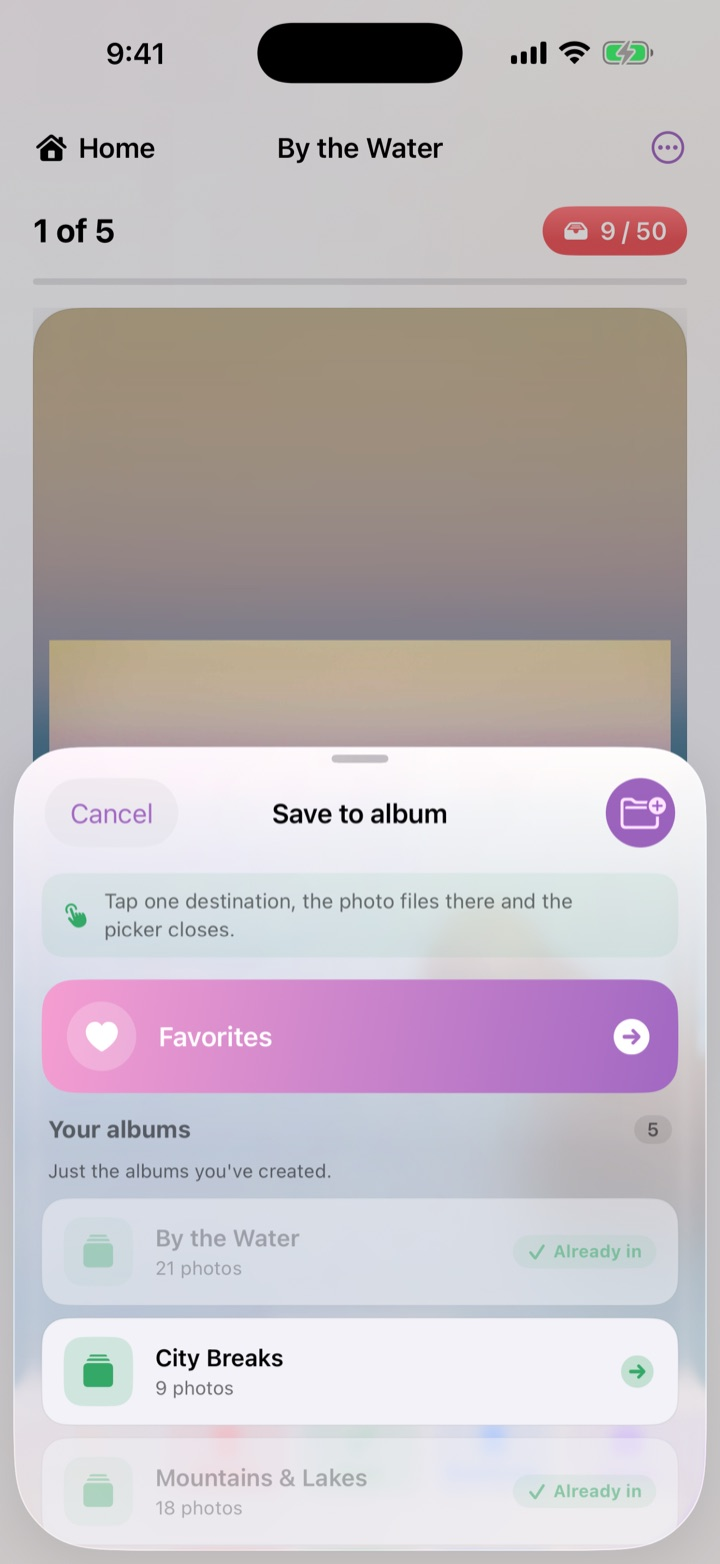
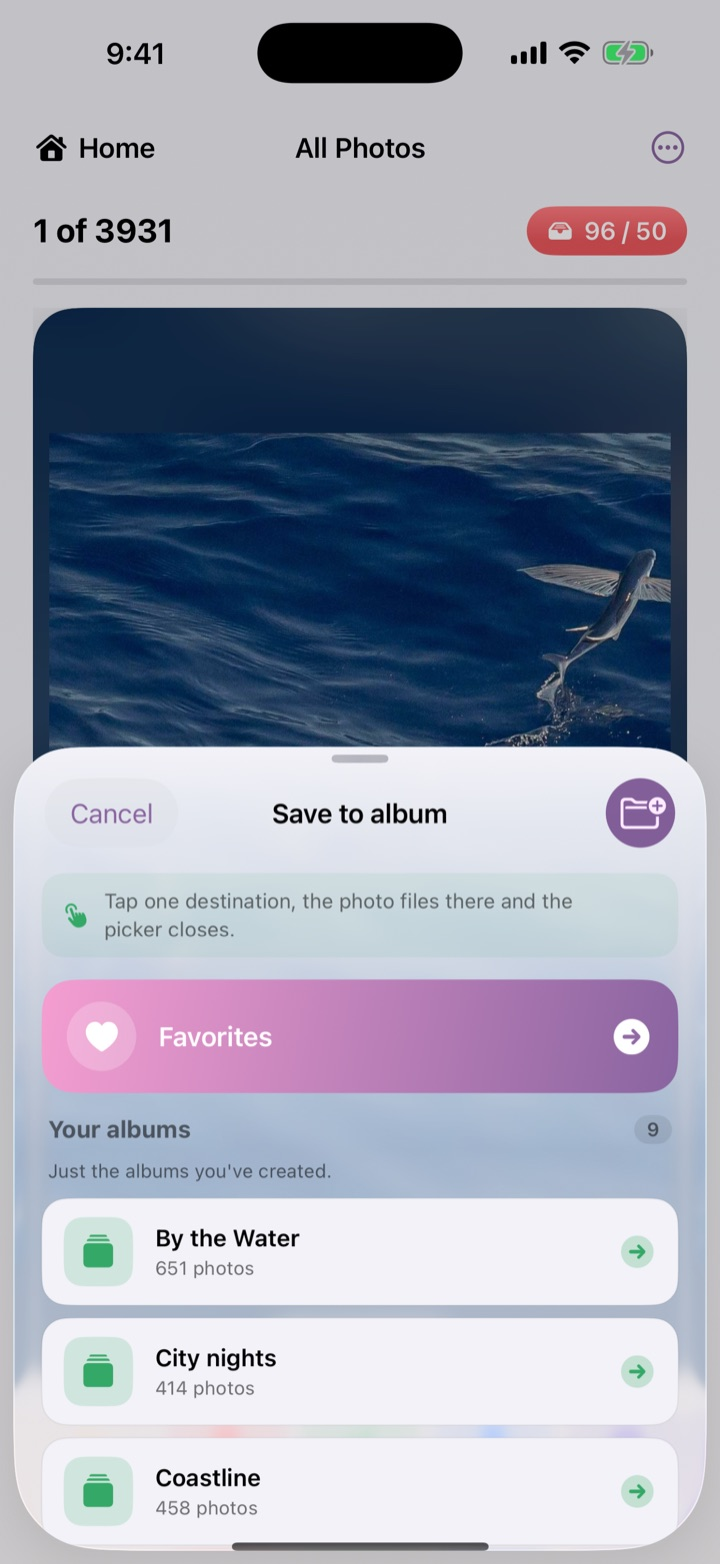
TidyTidy page: fresh 2.2 screenshots, tighter layout, contained footer
Every screenshot is re-taken from the shipping 2.2 build (the old set was
NeatRoll-era captures, including a NeatRoll wordmark on the storage section).
The showcase now follows the App Store set's narrative: sort to albums, clear
duplicates, then see progress and celebrate (new dark celebration shot), with
a make-it-yours pill row instead of a fourth device block. Hero gains the
on-device / no-ads / no-account pills and sections tighten up overall.

Fixes: the footer was edge-to-edge on all eight app pages (the .wrap class
was missing from .footer-inner; root page had it); the header nav overflowed
under 400px on the two product pages (same fix as the root page: hide the
longest section link at the narrowest widths).

The App Store buttons stay on the bare-id URL (apps.apple.com/app/id6776543079),
which Apple resolves by numeric id alone — it keeps working through the rename.

diff --git a/tidytidy/index.html b/tidytidy/index.html
@@ -28,8 +28,8 @@
     <link rel="stylesheet" href="/styles.css">
     <style>
       /* ---- TidyTidy product page: device mockups, showcase, tighter rhythm ---- */
-      main .section { padding-block: clamp(3.25rem, 2.4rem + 3.4vw, 5.5rem); }
-      main > .section:first-child { padding-top: calc(var(--header-h) + clamp(1.75rem, 4vw, 3.25rem)); }
+      main .section { padding-block: clamp(2.25rem, 1.6rem + 2.6vw, 3.75rem); }
+      main > .section:first-child { padding-top: calc(var(--header-h) + clamp(1.5rem, 3vw, 2.5rem)); }
 
       /* Hero: copy beside a device */
       .pt-hero {
@@ -58,7 +58,7 @@
       .pt-hero .device { max-width: 300px; }
 
       /* Showcase: alternating device + copy rows */
-      .showcase { display: grid; gap: clamp(2.5rem, 5vw, 4.5rem); margin-top: clamp(2.5rem, 5vw, 4rem); }
+      .showcase { display: grid; gap: clamp(1.75rem, 3.5vw, 3rem); }
       .showcase-row {
         display: grid;
         grid-template-columns: 0.9fr 1.1fr;
@@ -100,6 +100,11 @@
         .showcase-row.reverse .showcase-media { order: 0; }
         .device, .pt-hero .device { max-width: 264px; }
       }
+      @media (max-width: 400px) {
+        /* Same pattern as the root page: drop the longest section link at the
+           narrowest widths; keep Support and the primary CTA. */
+        nav a[href="#how"] { display: none; }
+      }
     </style>
   </head>
   <body>
@@ -132,19 +137,22 @@
               <p class="pillar-name pillar-name-pulse">TidyTidy &middot; Sort &amp; clean photos</p>
               <h1>Sort your photos. <span class="accent-pulse-ink">Clear the clutter.</span></h1>
               <p class="lead">
-                Swipe to clean up your camera roll &mdash; sort keepers into albums,
-                clear duplicates, and free up space. All on your iPhone.
+                One swipe files a keeper, clears a duplicate, or frees the space
+                it was wasting. Entirely on your iPhone.
               </p>
-              <div class="hero-actions">
+              <div class="pill-row" aria-label="Highlights">
+                <span class="pill">100% on-device</span>
+                <span class="pill">No ads</span>
+                <span class="pill">No account</span>
+                <span class="pill">iOS 17+</span>
+              </div>
+              <div class="hero-actions" style="margin-top: 1.75rem;">
                 <a class="button button-coral button-lg" href="https://apps.apple.com/app/id6776543079">
                   Get it on the App Store
                   <svg viewBox="0 0 24 24" fill="none" stroke="currentColor" stroke-width="2.4" stroke-linecap="round" stroke-linejoin="round" aria-hidden="true"><path d="M5 12h14"/><path d="m13 6 6 6-6 6"/></svg>
                 </a>
                 <a class="button button-quiet" href="#how" style="border-color: var(--line); color: var(--ink-text);">See how it works</a>
               </div>
-              <p style="color: var(--ink-muted); font-size: var(--t-small); margin-top: 1.5rem;">
-                iPhone &middot; iOS 17+ &middot; No accounts, no ads
-              </p>
             </div>
             <div class="device">
               <img src="/tidytidy/img/swipe-web.jpg" width="720" height="1564"
@@ -160,13 +168,13 @@
             <div class="showcase-row">
               <div class="showcase-media">
                 <div class="device">
-                  <img src="/tidytidy/img/home-web.jpg" width="720" height="1565" loading="lazy"
-                       alt="TidyTidy home dashboard showing review progress and gigabytes freed.">
+                  <img src="/tidytidy/img/albums-web.jpg" width="720" height="1564" loading="lazy"
+                       alt="TidyTidy &ldquo;Save to album&rdquo; picker filing a photo into an album.">
                 </div>
               </div>
               <div class="showcase-copy">
-                <h3>Save storage, effortlessly.</h3>
-                <p>Watch the gigabytes come back as you sort &mdash; no more &ldquo;Storage Full.&rdquo;</p>
+                <h3>Tidy photos. Sort to albums.</h3>
+                <p>File keepers into any album right as you swipe. Every change lands straight in iOS Photos.</p>
               </div>
             </div>
 
@@ -178,21 +186,27 @@
                 </div>
               </div>
               <div class="showcase-copy">
-                <h3>Find duplicates, automatically.</h3>
-                <p>We group near-identical shots and bursts, then pick the best to keep. Looks great in light or dark.</p>
+                <h3>Save space. Clear duplicates.</h3>
+                <p>Near-identical shots and bursts are grouped for you, with the best one already picked to keep.</p>
               </div>
             </div>
 
             <div class="showcase-row">
               <div class="showcase-media">
                 <div class="device">
-                  <img src="/tidytidy/img/albums-web.jpg" width="720" height="1564" loading="lazy"
-                       alt="TidyTidy &ldquo;Save to album&rdquo; picker for filing a photo into an album.">
+                  <img src="/tidytidy/img/celebrate-web.jpg" width="720" height="1564" loading="lazy"
+                       alt="TidyTidy's clean-up celebration: 445 MB freed this session, 2.14 GB all-time, confetti around the app icon.">
                 </div>
               </div>
               <div class="showcase-copy">
-                <h3>Sort into albums, in a tap.</h3>
-                <p>File keepers into any album right as you swipe &mdash; every change lands straight in iOS Photos.</p>
+                <h3>See progress. And celebrate!</h3>
+                <p>Watch the gigabytes come back, this session and all-time. Every confirmed clean-up ends with a little celebration.</p>
+                <div class="pill-row" aria-label="Make it yours">
+                  <span class="pill">Custom swipe order &amp; actions</span>
+                  <span class="pill">Light &amp; dark</span>
+                  <span class="pill">9 languages</span>
+                  <span class="pill">Haptics &amp; sounds</span>
+                </div>
               </div>
             </div>
           </div>
@@ -201,10 +215,10 @@
 
       <section class="section">
         <div class="wrap">
-          <div class="section-head" style="margin-bottom: clamp(1.75rem, 3vw, 2.5rem);">
+          <div class="section-head" style="margin-bottom: clamp(1.25rem, 2.5vw, 1.75rem);">
             <h2>Ready to tidy up?</h2>
             <p class="lead">
-              Free to start. Private by design &mdash; nothing leaves your iPhone.
+              Free to start. Private by design: nothing leaves your iPhone.
             </p>
           </div>
           <div class="hero-actions">
@@ -213,7 +227,7 @@
               <svg viewBox="0 0 24 24" fill="none" stroke="currentColor" stroke-width="2.4" stroke-linecap="round" stroke-linejoin="round" aria-hidden="true"><path d="M5 12h14"/><path d="m13 6 6 6-6 6"/></svg>
             </a>
           </div>
-          <p class="lead" style="margin-top: clamp(2.5rem, 5vw, 3.5rem);">
+          <p style="color: var(--ink-muted); margin-top: clamp(1.5rem, 3vw, 2rem);">
             More about TidyTidy:
             <a href="support.html" style="color: var(--indigo); border-bottom: 1px solid color-mix(in oklab, var(--indigo) 35%, transparent);">Support &amp; FAQ</a> &middot;
             <a href="privacy.html" style="color: var(--indigo); border-bottom: 1px solid color-mix(in oklab, var(--indigo) 35%, transparent);">Privacy Policy</a> &middot;
@@ -224,7 +238,7 @@
     </main>
 
     <footer>
-      <div class="footer-inner">
+      <div class="wrap footer-inner">
         <div class="footer-brand">
           <img class="logo-mark" src="/assets/logo-mark.png" alt="" width="22" height="22" aria-hidden="true">
           <span>Pulse and Purpose</span>

diff --git a/phototogo/index.html b/phototogo/index.html
@@ -100,6 +100,11 @@
         .showcase-row.reverse .showcase-media { order: 0; }
         .device, .pt-hero .device { max-width: 264px; }
       }
+      @media (max-width: 400px) {
+        /* Same pattern as the root page: drop the longest section link at the
+           narrowest widths; keep Support and the primary CTA. */
+        nav a[href="#how"] { display: none; }
+      }
     </style>
   </head>
   <body>
@@ -224,7 +229,7 @@
     </main>
 
     <footer>
-      <div class="footer-inner">
+      <div class="wrap footer-inner">
         <div class="footer-brand">
           <img class="logo-mark" src="/assets/logo-mark.png" alt="" width="22" height="22" aria-hidden="true">
           <span>Pulse and Purpose</span>

diff --git a/phototogo/privacy.html b/phototogo/privacy.html
@@ -189,7 +189,7 @@
     </main>
 
     <footer>
-      <div class="footer-inner">
+      <div class="wrap footer-inner">
         <div class="footer-brand">
           <img class="logo-mark" src="/assets/logo-mark.png" alt="" width="22" height="22" aria-hidden="true">
           <span>Pulse and Purpose</span>

diff --git a/phototogo/support.html b/phototogo/support.html
@@ -118,7 +118,7 @@
     </main>
 
     <footer>
-      <div class="footer-inner">
+      <div class="wrap footer-inner">
         <div class="footer-brand">
           <img class="logo-mark" src="/assets/logo-mark.png" alt="" width="22" height="22" aria-hidden="true">
           <span>Pulse and Purpose</span>

diff --git a/phototogo/terms.html b/phototogo/terms.html
@@ -186,7 +186,7 @@
     </main>
 
     <footer>
-      <div class="footer-inner">
+      <div class="wrap footer-inner">
         <div class="footer-brand">
           <img class="logo-mark" src="/assets/logo-mark.png" alt="" width="22" height="22" aria-hidden="true">
           <span>Pulse and Purpose</span>

diff --git a/tidytidy/privacy.html b/tidytidy/privacy.html
@@ -189,7 +189,7 @@
     </main>
 
     <footer>
-      <div class="footer-inner">
+      <div class="wrap footer-inner">
         <div class="footer-brand">
           <img class="logo-mark" src="/assets/logo-mark.png" alt="" width="22" height="22" aria-hidden="true">
           <span>Pulse and Purpose</span>

diff --git a/tidytidy/support.html b/tidytidy/support.html
@@ -118,7 +118,7 @@
     </main>
 
     <footer>
-      <div class="footer-inner">
+      <div class="wrap footer-inner">
         <div class="footer-brand">
           <img class="logo-mark" src="/assets/logo-mark.png" alt="" width="22" height="22" aria-hidden="true">
           <span>Pulse and Purpose</span>

diff --git a/tidytidy/terms.html b/tidytidy/terms.html
@@ -186,7 +186,7 @@
     </main>
 
     <footer>
-      <div class="footer-inner">
+      <div class="wrap footer-inner">
         <div class="footer-brand">
           <img class="logo-mark" src="/assets/logo-mark.png" alt="" width="22" height="22" aria-hidden="true">
           <span>Pulse and Purpose</span>
